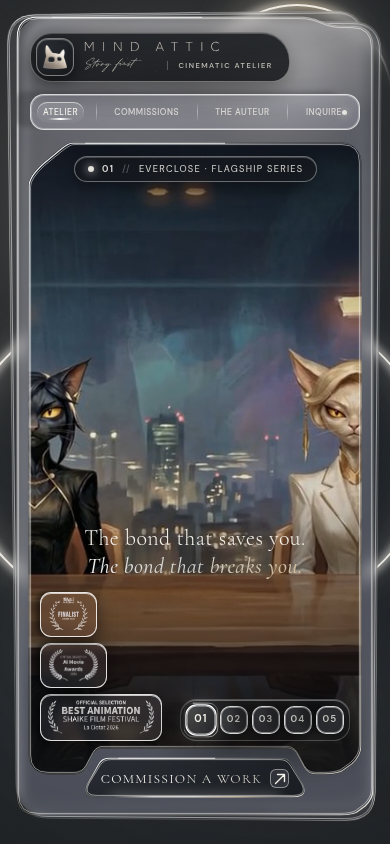
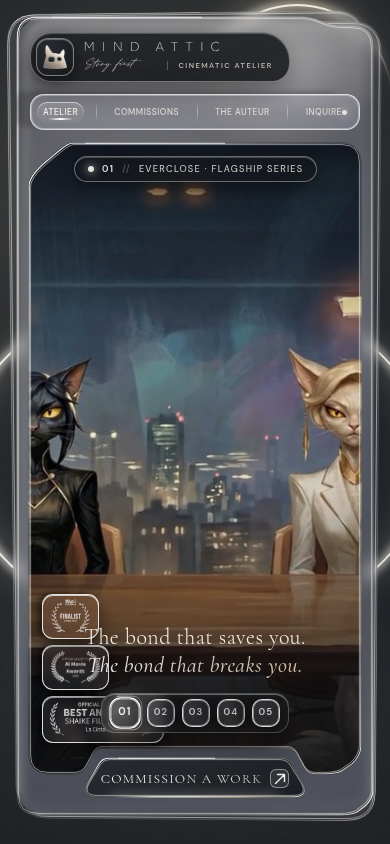
Center the mobile reel buttons and sit the headline on them.
Keep the switcher, the headline, and the laurel pyramid on separate layers so the buttons stay dead-center above the notch.

Changed region(s): [[0.0923, 0.6161, 0.8923, 0.8934], [0.6769, 0.6161, 0.7692, 0.6777]]

diff --git a/assets/css/style.css b/assets/css/style.css
@@ -1258,18 +1258,26 @@ html, body {
   }
 
   .cinema-editorial-copy {
-    width: 78%;
-    bottom: 195px;
+    z-index: 15;
+    left: 50%;
+    right: auto;
+    bottom: 96px;
+    transform: translateX(-50%);
+    width: min(88%, 420px);
+    text-align: center;
+    pointer-events: none;
   }
 
   .viewport-laurels {
+    z-index: 14;
     flex-direction: column-reverse;
     align-items: flex-start;
-    left: 12px;
+    left: 14px;
     right: auto;
-    bottom: 34px;
+    bottom: 18px;
     gap: 6px;
     max-width: 156px;
+    pointer-events: none;
   }
 
   .viewport-laurel {
@@ -1298,24 +1306,26 @@ html, body {
     margin-top: 2px;
   }
 
-  /* Sits on the bottom-right floor so the laurel pyramid can anchor the left ledge. */
+  /* Own layer, dead-center above the notch. Laurels and the headline do not move it. */
   .reel-switcher-rail {
+    position: absolute;
+    z-index: 16;
+    right: auto;
     top: auto;
-    bottom: 34px;
-    left: auto;
-    right: 12px;
-    transform: none;
+    left: 50%;
+    bottom: 42px;
+    transform: translateX(-50%);
     flex-direction: row;
-    padding: 4px 5px;
-    border-radius: 16px;
-    gap: 0;
+    gap: 7px;
+    padding: 5px 8px;
+    border-radius: 14px;
     max-width: none;
   }
 
   .switcher-buttons {
     flex-direction: row;
-    gap: 4px;
-    padding: 2px 0;
+    gap: 7px;
+    padding: 0;
   }
 
   .frosted-reel-btn {
@@ -1381,5 +1391,12 @@ html, body {
 
   .dock-wing--right {
     display: none;
+  }
+}
+
+/* The centered notch reaches the left ledge only on the narrowest phones. */
+@media (max-width: 440px) {
+  .viewport-laurels {
+    bottom: 32px;
   }
 }
